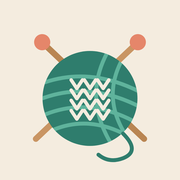
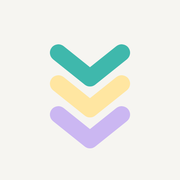
图标换成简洁的三层针脚（跟 itinera 同色系）
Claude-Session: https://claude.ai/code/session_01KJMWq1E3wMLfoKhpo74bYS

Changed region(s): [[0.1667, 0.1667, 0.8333, 0.9167]]

diff --git a/index.html b/index.html
@@ -9,12 +9,12 @@
 <link rel="manifest" href="manifest.json">
 <link rel="icon" type="image/svg+xml" href="icons/icon.svg">
 <link rel="icon" type="image/png" sizes="32x32" href="icons/favicon-32.png">
-<link rel="apple-touch-icon" href="icons/apple-touch-icon.png">
+<link rel="apple-touch-icon" href="icons/apple-touch-icon.png?v=2">
 <meta name="apple-mobile-web-app-capable" content="yes">
 <meta name="mobile-web-app-capable" content="yes">
 <meta name="apple-mobile-web-app-title" content="babyknitter">
 <meta name="apple-mobile-web-app-status-bar-style" content="default">
-<link rel="stylesheet" href="css/style.css?v=202611280244">
+<link rel="stylesheet" href="css/style.css?v=202611280246">
 </head>
 <body>
 
@@ -246,12 +246,12 @@
 
 <div id="flash" class="flash"></div>
 
-<script src="js/shapes.js?v=202611280244"></script>
-<script src="js/parser.js?v=202611280244"></script>
-<script src="js/imgstore.js?v=202611280244"></script>
+<script src="js/shapes.js?v=202611280246"></script>
+<script src="js/parser.js?v=202611280246"></script>
+<script src="js/imgstore.js?v=202611280246"></script>
 <script src="https://cdn.jsdelivr.net/npm/@supabase/supabase-js@2"></script>
-<script src="js/cloud.js?v=202611280244"></script>
-<script src="js/ai-import.js?v=202611280244"></script>
-<script src="js/app.js?v=202611280244"></script>
+<script src="js/cloud.js?v=202611280246"></script>
+<script src="js/ai-import.js?v=202611280246"></script>
+<script src="js/app.js?v=202611280246"></script>
 </body>
 </html>
